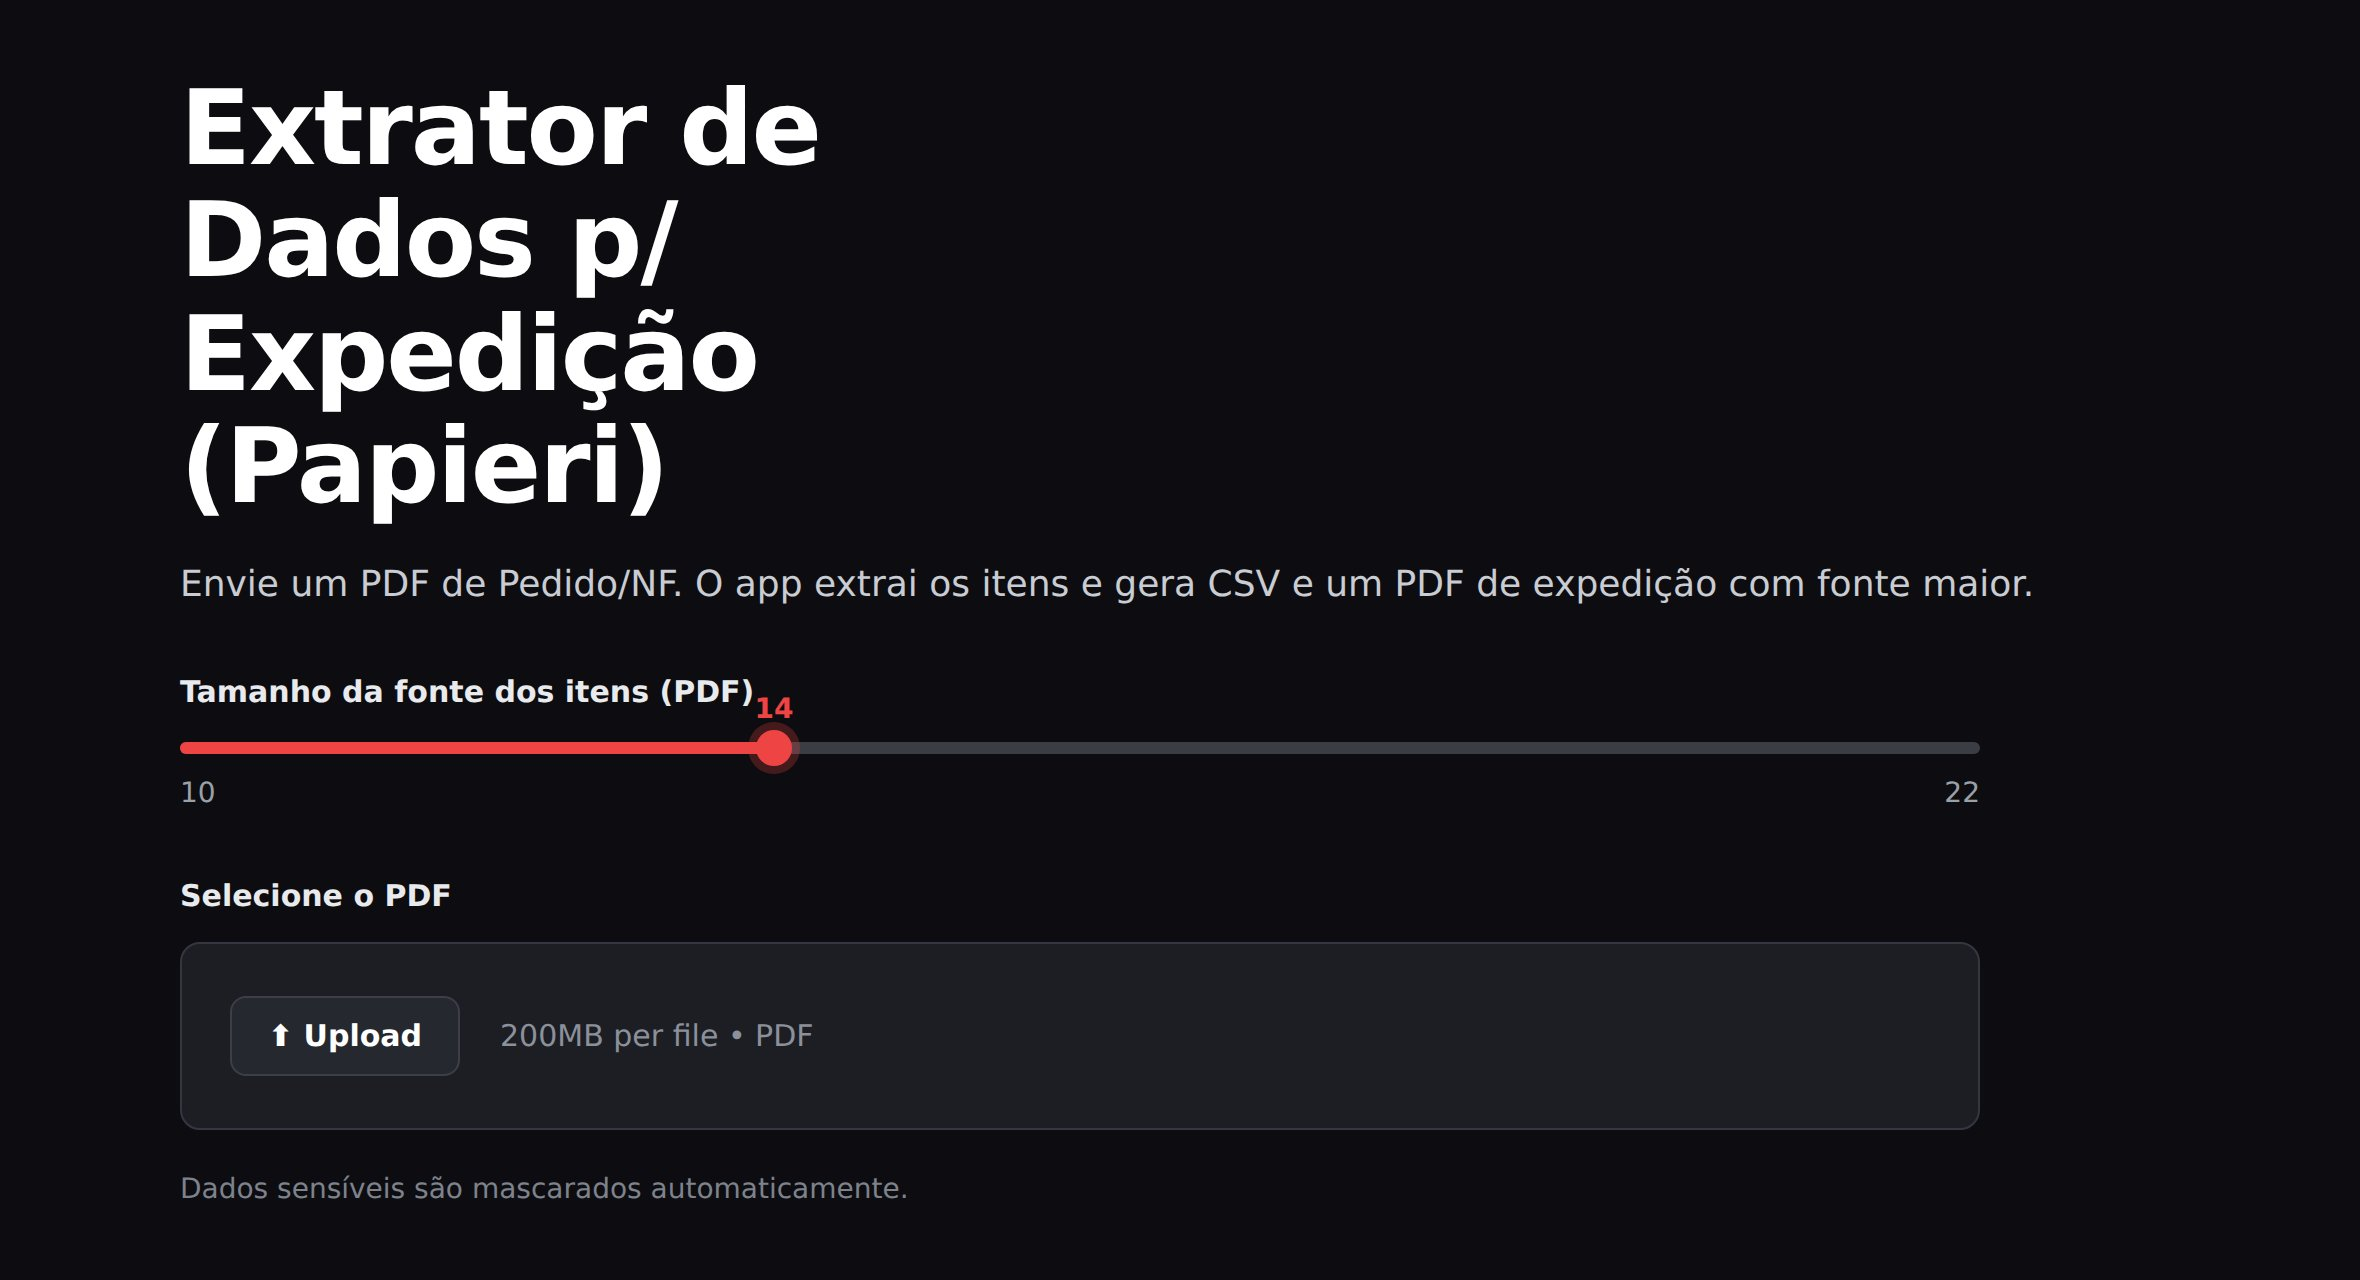
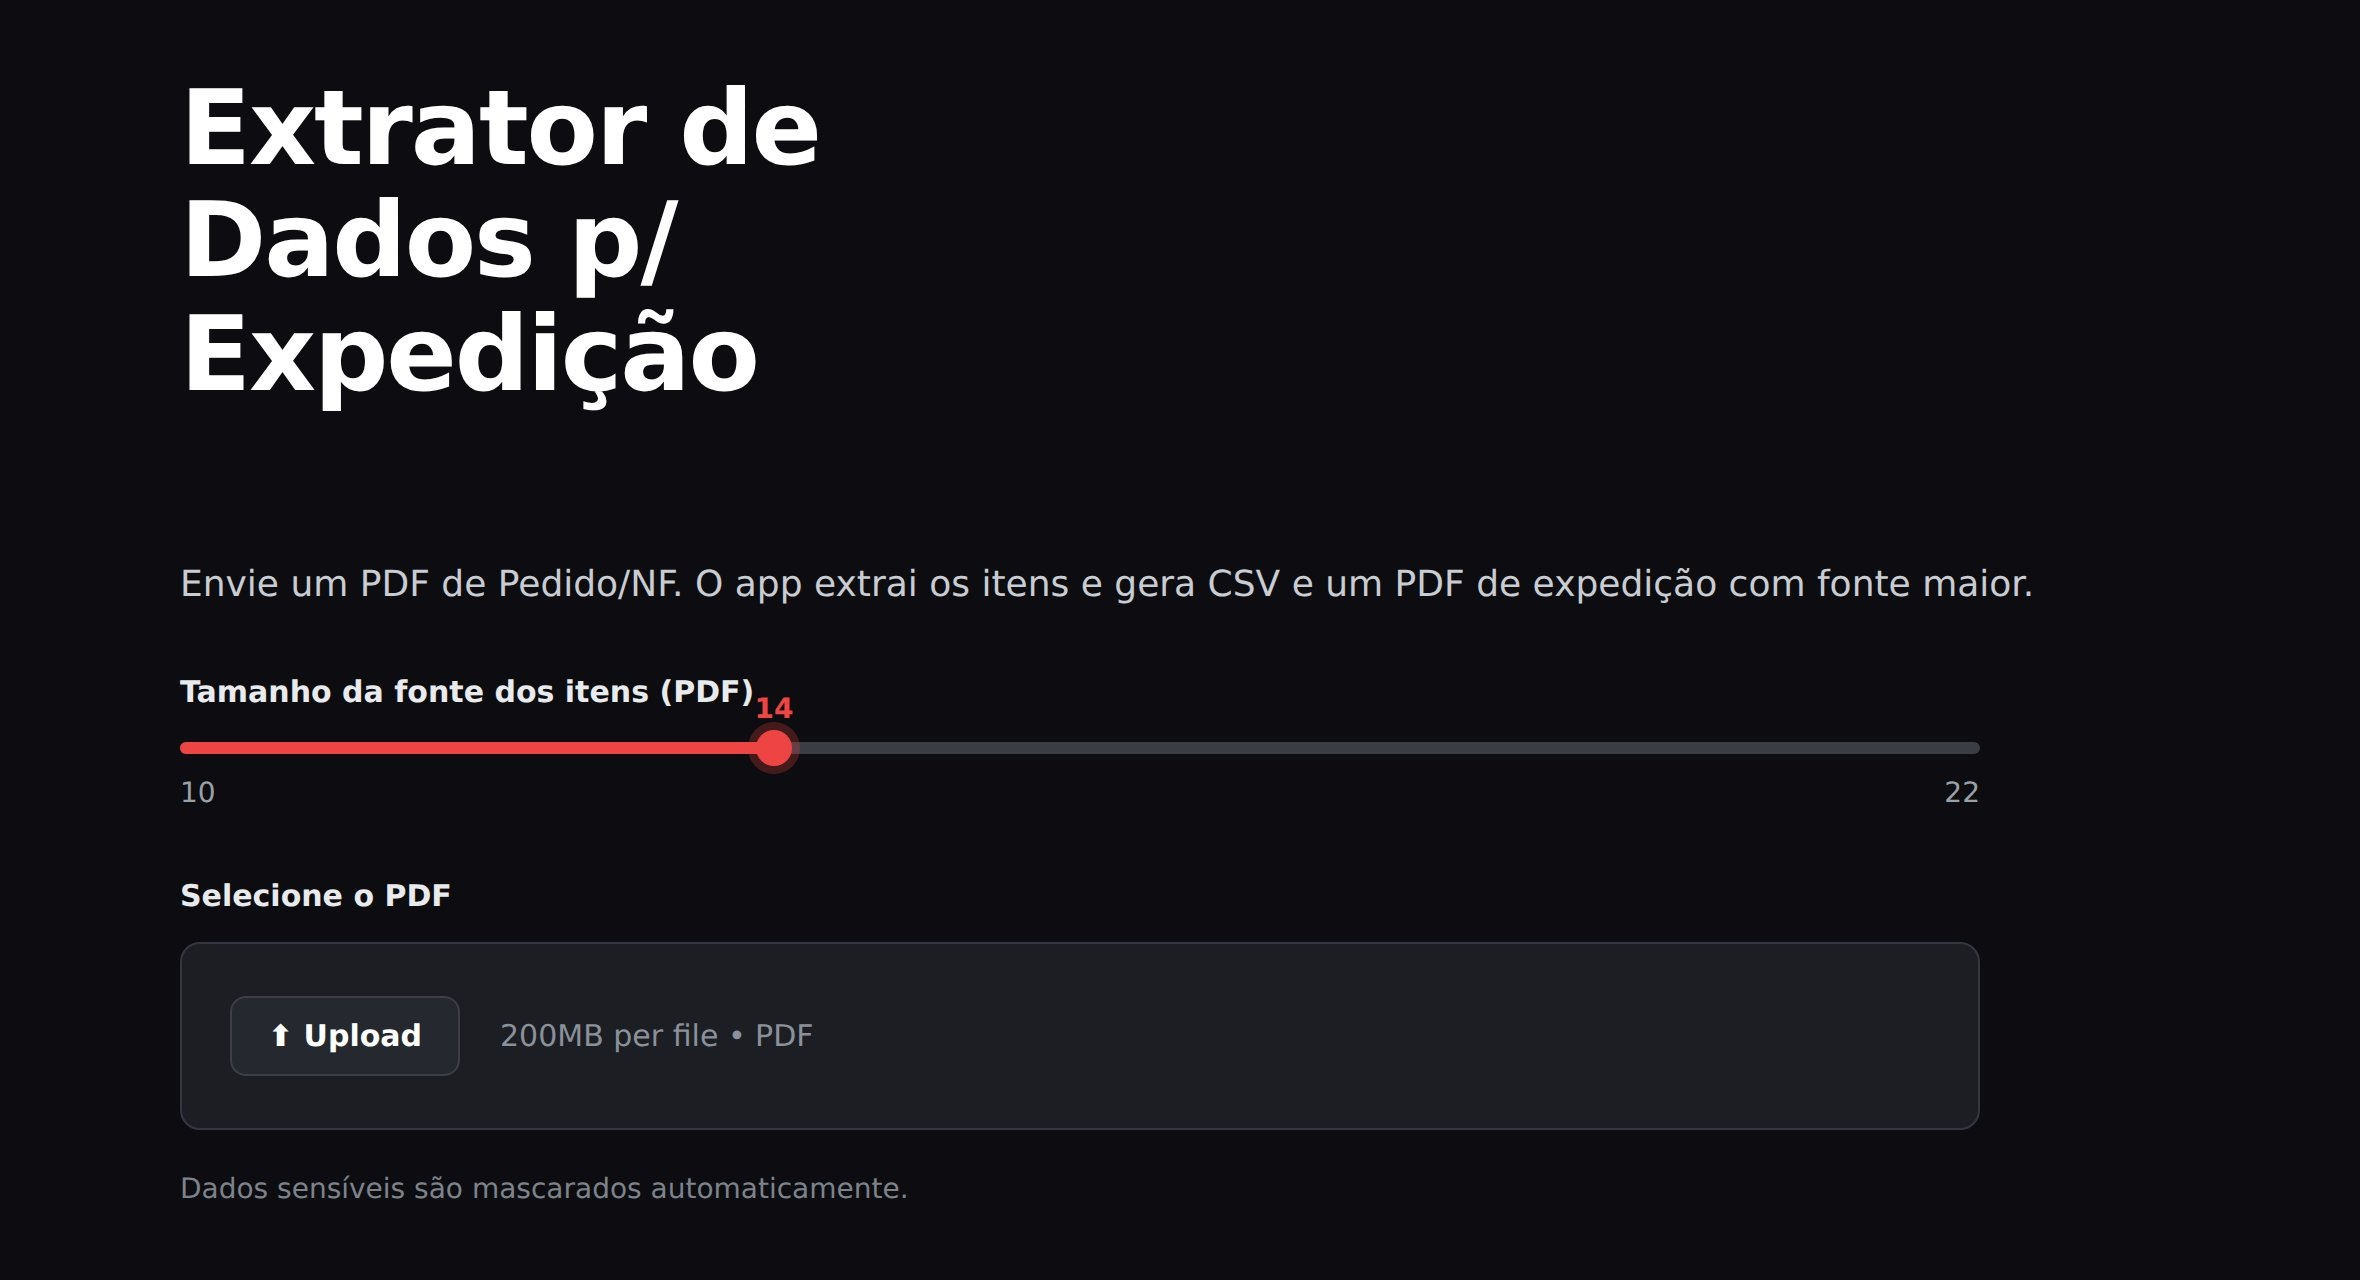
Adiciona card Conversor de Lista Full e mascara nome no Extrator
- Novo sistema no portfolio: Conversor de Lista Full (PDF -> planilha
  consolidada SKU x Total via DE-PARA da base de produtos), com carrossel
  de 3 telas
- Remove o nome Papieri da imagem do card Extrator para Expedicao

Changed region(s): [[0.0619, 0.3125, 0.2784, 0.4062]]

diff --git a/index.html b/index.html
@@ -534,6 +534,26 @@
         </div>
       </div>
 
+      <!-- PROJETO 6 — Conversor de Lista Full -->
+      <div class="project reveal">
+        <div class="thumb carousel" data-carousel>
+          <div class="track">
+            <img src="img/conversor-full-home.jpg" alt="Conversor de Lista Full — tela inicial e passo a passo">
+            <img src="img/conversor-full-upload.jpg" alt="Conversor de Lista Full — seleção de marketplace e envio do PDF">
+            <img src="img/conversor-full-resultado.jpg" alt="Conversor de Lista Full — resultado consolidado SKU × Total">
+          </div>
+          <button class="cnav prev" type="button" aria-label="Foto anterior">&lsaquo;</button>
+          <button class="cnav next" type="button" aria-label="Próxima foto">&rsaquo;</button>
+          <div class="dots"></div>
+        </div>
+        <div class="pbody">
+          <span class="ptag">Automação · Dados</span>
+          <h3>Conversor de Lista Full</h3>
+          <p>Lê o PDF da lista de estoque Full do marketplace (Mercado Livre, Shopee) e devolve uma planilha consolidada de SKU × Total. Aplica um DE-PARA contra a base de produtos (2.800+ SKUs embutidos no app) pra padronizar os códigos, totaliza as unidades e entrega pronto — em segundos, sem digitação manual.</p>
+          <div class="stack"><span>Web</span><span>IA</span><span>Extração PDF</span><span>DE-PARA</span><span>Excel/CSV</span></div>
+        </div>
+      </div>
+
     </div>
   </section>
   <section>
